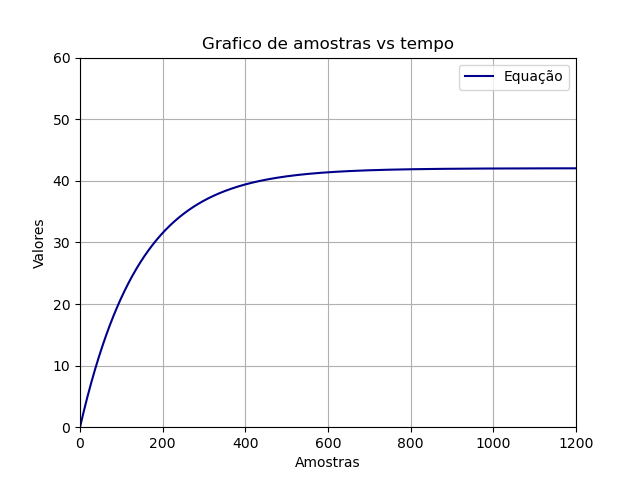
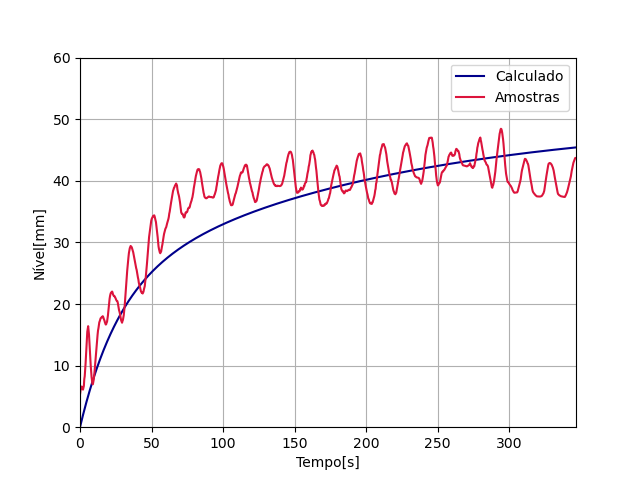
Alteraçoes

diff --git a/control.html b/control.html
@@ -150,28 +150,38 @@
 
               A1:<input type="text" class="form-control" name="A1" placeholder="0.9930900">
               B1:<input type="text" class="form-control" name="B1" placeholder="0.0058096">
+
+              Tempo Amostragem:<input type="text" class="form-control" name="Amostragem" placeholder="0.3">
               Setpoint:<input type="text" class="form-control" name="SetPoint" placeholder="50">
 
-              Proporcional:<input type="text" class="form-control" name="Proporcional" placeholder="1">
-              Integral:<input type="text" class="form-control" name="Integral" placeholder="1">
-              Derivativo:<input type="text" class="form-control" name="Derivativo" placeholder="1">
+              Ganho Proporcional:<input type="text" class="form-control" name="Proporcional" placeholder="0">
+              Ganho Integral:<input type="text" class="form-control" name="Integral" placeholder="0">
+              Ganho Derivativo:<input type="text" class="form-control" name="Derivativo" placeholder="0">
 
 
-            </div>
-            <div style="text-align: center;">
-              <h4 class="text-center">Modo</h4>
+              <div style="text-align: center;">
+                <h4 class="text-center">Modo</h4>
 
-              <div class=".container">
-                <div class=".btn-group btn-group-toggle" data-toggle="buttons">
-                  <label class="btn btn-primary darkgraybackground">
-                    <input type="radio" name="P__" id="P"> P &ThickSpace;&ThickSpace;
-                  </label>
-                  <label class="btn btn-primary mediumgraybackground">
-                    <input type="radio" name="PI_" id="PI"> PI &ThickSpace;
-                  </label>
-                  <label class="btn btn-primary lightgraybackground">
-                    <input type="radio" name="PID" id="PID"> PID
-                  </label>
+                <div class=".container">
+                  <div class=".btn-group btn-group-toggle" data-toggle="buttons">
+                    <label class="btn btn-primary darkgraybackground">
+                      <input type="radio" name="P__" id="P"> P &ThickSpace;&ThickSpace;
+                    </label>
+                    <label class="btn btn-primary mediumgraybackground">
+                      <input type="radio" name="PI_" id="PI"> PI &ThickSpace;
+                    </label>
+                    <label class="btn btn-primary lightgraybackground">
+                      <input type="radio" name="PID" id="PID"> PID
+
+                    </label>
+                  </div>
+
+                  <input class="form-check-input" type="checkbox" value="1" name="fixed_scale" id="fixed_scale" checked>
+                  <label class="form-check-label" for="fixed_scale"> Escala Fixa</label>
+                  <br>
+                  <input class="form-check-input" type="checkbox" value="1" name="plot_sample" id="plot_sample">
+                  <label class="form-check-label" for="plot_sample"> Exibir Amostras</label>
+
                 </div>
               </div>
               <br>
@@ -205,8 +215,7 @@
         </div>
 
         <div class="col-xl-2  ">
-
-          <br><br><br><br><br>yyyy
+          <br><br><br><br><br>table_placeholder
         </div>
       </div>
     </div>
@@ -214,7 +223,7 @@
 
     <footer class=".container">
       <!-- <hr style="height:8px;border-width:0;color: rgb(52, 58, 64);background-color: rgb(52, 58, 64)"> -->
-      <p class="text-center">&copy; ASM Sistemas de Controle (build 20200929-1722)</p>
+      <p class="text-center">&copy; ASM Sistemas de Controle (build 20201006 - 1204)</p>
     </footer>
 
 </html>

diff --git a/plot3trab.py b/plot3trab.py
@@ -1,9 +1,10 @@
 import matplotlib
 import matplotlib.pyplot as plt
 import numpy as np
-#oi
-def create_table(modo,a1,b1,sp,p,i,d,pico):
-    Html=     "<table>"
+
+
+def create_table(modo, a1, b1, sp, p, i, d, pico, overshoot, tempo_acomodacao):
+    Html =    "<table>"
     Html=Html+"<tr><th>     Param.  </th>    <th>Valor                   </th></tr>"
     Html=Html+"<tr><td>     Modo    </th>    <td>"+modo+   "             </td></tr>"
     Html=Html+"<tr><td>     A1      </td>    <td>"+str(a1)+"             </td></tr>"
@@ -12,97 +13,57 @@ def create_table(modo,a1,b1,sp,p,i,d,pico):
     Html=Html+"<tr><td>     P       </td>    <td>"+str(p)+"              </td></tr>"
     Html=Html+"<tr><td>     I       </td>    <td>"+str(i)+"              </td></tr>"
     Html=Html+"<tr><td>     D       </td>    <td>"+str(d)+"              </td></tr>"
-    tolerancia=sp*1.15
-    Html=Html+"<tr><td>     15% Tol. </td>    <td>"+str(tolerancia)+"            </td></tr>"
-    if(pico<tolerancia):
-        Html=Html+'<tr><td>     Pico    </td><td class="text-success">'+str(round(pico,2))+"  </td></tr>"
-    else:
-        Html=Html+'<tr><td>     Pico    </td><td class="text-danger">'+str(round(pico,2))+"  </td></tr>"
+    Html=Html+"<tr><td>     Pico    </td>    <td>"+str(round(pico,2))+"        </td></tr>"
+    Html=Html+'<tr><td>     Overshoot        </td><td class="text-success">'+str(round(overshoot,2))+"  </td></tr>"
+    Html=Html+'<tr><td> Tempo de acomodação  </td><td class="text-danger">'+str(round(tempo_acomodacao,2))+"  </td></tr>"
     Html=Html+"</table>"
-    #<p class="text-success">.text-success</p>
-    #vc nao esta vendo errado, isto eh exatamente oque vc pensa que eh
+    # <p class="text-success">.text-success</p>
+    # vc nao esta vendo errado, isto eh exatamente oque vc pensa que eh
     return Html
 
-def plot(modo,a1,b1,sp,p,i,d):
-    
-    
-    #for x in range(0, len(samples)):
-    #    print (samples[x])
-
-    #limite = len(samples)      # 600 amostras (10 minutos)
-    limite=1200
-    limite2 = len(samples)      
-    amostragem = 1  # intervalo entre amostras
-    leituras = []     # valor vazio
-    tempo = np.arange(0, limite*amostragem, amostragem)
-    tempo2 = np.arange(0, limite2*amostragem, amostragem) 
-
-    # preenche o vetor com 6000 amostras
-    # entre 0 e 599.9
-    #a1 = 0.9930900
-    #b1 = 0.0058096
-    kp = float(p)  #ganho proporcional
-    ki = float(i)  #ganho integral
-
-
-
-    #setpoint = 0
-    saida = 0
-    #alvo = 50
-    alvo=float(sp)
-    leituras.append(saida)  # instante zero vale zero
-
-    erro = 50  # erro inicial
-    acao_int=0
-    for cont in tempo:
-        acao_int=acao_int+ki*amostragem*erro
-        acao_pro=kp*erro
-
-        acao_controle=acao_int+acao_pro
-        erro = alvo-leituras[int(cont)]
-        #print (round(cont,1))
-        # esta string feia quer dizer erro = (alvo)-(ultima saida)
-        if modo=="P":
-            leituras.append(( a1*leituras[int(cont)] + b1*alvo)) #Q1
-        else:
-            leituras.append(( a1*leituras[int(cont)] + kp*b1*acao_controle))  #Q2
-        #leituras.append(( a1*leituras[int(cont)] + b1*kp*erro))  #Q3
-
-    #   if cont >= 344.3:
-        if cont >= (tempo.max()-1*amostragem):
-            break
-
-
-    #for leitura in leituras:
-    #    print(leitura)
-
-    #t = tempo
-    #v = leituras
-
-    #for t in range(0,len(tempo)):
-    #    a=tempo[t]*0.3
-    #    print(a)
-    #    tempo[t]=a
-
+def plot(modo,a1,b1,ts,sp,kp,ki,kd,fs,ps):
+    pv = 0  
+    tempo=0
+    vetY = []
+    vetT = []
+    acaoIntegral = 0
+    erroAnterior = sp-pv
+    tempo_acomodacao = 0
+    tempo_analise = 346.8
+    while (tempo<tempo_analise):
+      vetY.append(pv) 
+      vetT.append(tempo) 
+      # Cálculos:
+      erro = sp - pv 
+      acaoProporcional = kp * erro 
+      acaoIntegral = acaoIntegral + ki*ts*erro 
+      acaoDerivativa = ((erro - erroAnterior)/ts)*kd 
+      acaoControlador = acaoProporcional + acaoIntegral + acaoDerivativa 
+      pv = a1*pv + b1*acaoControlador 
+      erroAnterior = erro 
+      if(pv>sp*1.02): #pv>51 (+2% de variação do valor setado)
+          tempo_acomodacao=0 
+      elif (pv<sp*0.98): #pv<49 (-2% de variação do valor setado)
+          tempo_acomodacao=0 
+      elif(tempo_acomodacao==0):
+          tempo_acomodacao = tempo 
+      tempo=tempo+ts     
     fig, ax = plt.subplots()
-    #plt.xlim(xmin=0.0,xmax=len(samples))
-    plt.xlim(xmin=0.0,xmax=1200)
-    plt.ylim(ymin=0.0,ymax=60)
+    plt.xlim(xmin=0.0,xmax=tempo)
+    #plt.xlim(xmin=0.0,xmax=350)	
 
-    pico=max(leituras)
-    
-    ax.plot(tempo, leituras, color='darkblue', label="Equação")
-    ax.plot(tempo2, samples , color='crimson' , label="Leitura" )
-
-    ax.legend()
-    titulo = "Grafico de amostras vs tempo"
-    ax.set(xlabel='Amostras', ylabel='Valores', title=titulo)
+    if fs:
+        plt.ylim(ymin=0.0,ymax=sp*1.2)
+    ax.plot(vetT, vetY, color='darkblue', label="Calculado")
+    ax.set(xlabel='Tempo[s]', ylabel='Nível[mm]')
+    if(ps):
+        ax.plot(vetT, samples , color='crimson' , label="Amostras" )
+        ax.legend()
     ax.grid()
-    #plt.show()
-    fig.savefig("./tmp/Results.png")
-
-    
-    Html=create_table(modo,a1,b1,sp,p,i,d,pico)
+    pico=max(vetY)
+    overshoot = (pico-sp)/sp*100 
+    fig.savefig("./tmp/Results.png")    
+    Html=create_table(modo,a1,b1,sp,kp,ki,kd,pico,overshoot,tempo_acomodacao)
     return Html
 
-samples=[5.3171,5.8219,6.3517,6.5201,6.5999,6.4649,6.2239,6.0977,6.3924,6.7084,7.8155,8.2702,9.1974,10.326,11.698,13.004,14.302,15.502,15.948,16.398,15.665,15.013,13.72,12.554,11.16,9.9765,8.932,8.132,7.5887,7.0124,6.9702,7.3112,7.7195,8.398,9.089,9.9572,10.943,11.68,12.556,13.554,14.493,15.032,15.698,16.068,16.56,17.035,17.212,17.447,17.674,17.733,17.813,17.91,17.851,18.019,17.902,17.662,17.477,17.316,17.03,16.858,16.659,16.71,16.967,17.106,17.587,18.084,18.82,19.473,20.155,20.855,21.293,21.604,21.81,21.874,21.983,22.017,21.819,21.533,21.428,21.277,21.29,21.223,21.034,20.937,20.722,20.584,20.487,20.47,20.229,19.799,19.386,18.994,18.766,18.454,18.025,17.683,17.321,17.128,16.96,17.233,17.401,17.772,18.198,18.829,19.582,20.445,21.494,22.509,23.604,24.388,25.398,26.199,26.973,27.635,28.275,28.717,29.054,29.222,29.42,29.356,29.273,29.125,28.868,28.675,28.401,28.027,27.656,27.352,26.877,26.574,26.081,25.794,25.55,25.103,24.649,24.299,23.991,23.486,23.145,22.875,22.694,22.378,22.061,21.922,21.804,21.821,21.703,21.832,22.018,22.376,22.616,22.92,23.637,24.155,24.908,25.637,26.496,27.368,28.239,29.023,29.942,30.876,31.423,32.084,32.645,33.078,33.496,33.782,33.954,34.068,34.261,34.257,34.359,34.397,34.211,33.866,33.584,33.306,32.721,32.25,31.454,30.855,30.017,29.351,28.948,28.687,28.38,28.241,28.405,28.497,28.947,29.313,29.654,30.142,30.55,31.004,31.404,31.66,31.934,32.207,32.342,32.494,32.819,33.072,33.308,33.498,33.797,34.13,34.657,34.973,35.47,35.861,36.351,36.789,37.151,37.601,38.006,38.398,38.575,38.862,38.925,39.161,39.308,39.392,39.556,39.388,39.252,38.641,38.287,37.945,37.705,37.394,36.96,36.535,35.933,35.462,34.809,34.733,34.59,34.628,34.505,34.235,34.062,34.045,34.171,34.495,34.815,34.908,34.874,34.887,35.009,35.274,35.514,35.577,35.645,35.624,35.814,36.151,36.391,36.606,36.783,37.108,37.327,37.72,38.137,38.718,39.088,39.506,39.928,40.332,40.761,41.056,41.414,41.599,41.814,41.811,41.903,41.878,41.861,41.587,41.423,41.086,40.72,40.349,39.801,39.418,38.941,38.465,38.082,37.816,37.436,37.319,37.247,37.175,37.204,37.17,37.217,37.301,37.331,37.39,37.454,37.433,37.429,37.37,37.362,37.353,37.383,37.34,37.307,37.311,37.268,37.302,37.373,37.647,37.773,38.021,38.232,38.497,38.986,39.339,39.865,40.211,40.67,40.996,41.446,41.795,42.123,42.469,42.625,42.756,42.853,42.857,42.744,42.52,42.288,41.956,41.527,41.144,40.625,40.259,39.75,39.442,39.075,38.705,38.346,38.005,37.76,37.288,37.027,36.685,36.483,36.226,36.045,36.032,36.049,36.062,36.193,36.516,36.774,37.031,37.288,37.528,37.839,37.978,38.235,38.438,38.758,39.04,39.369,39.711,40.052,40.351,40.625,40.891,41.025,41.333,41.367,41.316,41.338,41.405,41.603,41.852,42.067,42.218,42.458,42.454,42.592,42.622,42.55,42.479,42.061,41.729,41.228,40.916,40.411,40.116,39.657,39.434,39.121,38.734,38.544,38.249,38.126,37.717,37.455,37.186,37.038,36.786,36.55,36.558,36.621,36.693,36.837,37.225,37.537,37.878,38.198,38.645,39.138,39.513,39.783,40.212,40.49,40.819,41.131,41.409,41.594,41.931,42.129,42.235,42.344,42.39,42.42,42.504,42.554,42.668,42.673,42.644,42.527,42.509,42.362,42.16,42.021,41.722,41.457,41.14,40.87,40.528,40.309,40.069,39.821,39.677,39.5,39.386,39.311,39.197,39.231,39.168,39.172,39.121,39.201,39.189,39.18,39.176,39.147,39.147,39.139,39.172,39.223,39.248,39.408,39.488,39.75,39.977,40.209,40.52,40.832,41.228,41.556,42.067,42.404,42.883,43.102,43.477,43.789,44.071,44.328,44.467,44.673,44.668,44.736,44.707,44.618,44.421,44.185,43.722,43.415,42.762,42.202,41.401,40.715,40.108,39.611,38.987,38.628,38.198,38.047,38.072,38.076,38.249,38.249,38.324,38.312,38.624,38.562,38.899,38.756,38.747,38.57,38.583,38.747,38.869,39.152,39.147,39.522,39.619,39.808,39.787,40.28,40.616,41.109,41.471,41.745,42.297,42.566,43.029,43.455,44.146,44.382,44.702,44.765,44.731,44.908,44.694,44.618,44.331,44.202,43.752,43.448,42.77,42.143,41.621,40.766,40.079,39.379,38.705,37.993,37.504,36.931,36.753,36.407,36.128,36.036,35.998,35.909,35.964,35.921,35.967,35.946,35.968,36.133,36.124,36.259,36.289,36.362,36.319,36.48,36.653,36.818,37.088,37.173,37.527,37.801,38.016,38.487,39.098,39.435,39.814,40.041,40.377,40.722,41.093,41.349,41.711,41.791,41.964,42.154,42.204,42.457,42.395,42.244,41.933,41.634,41.205,40.88,40.682,40.202,39.789,39.195,38.66,38.508,38.385,38.262,38.296,38.262,37.958,37.988,38.063,38.235,38.42,38.373,38.395,38.319,38.336,38.412,38.475,38.543,38.488,38.526,38.509,38.632,38.779,38.956,39.015,39.239,39.336,39.547,39.998,40.445,40.883,41.174,41.586,42.049,42.462,42.769,43.245,43.519,43.755,43.945,44.155,44.37,44.337,44.358,44.454,44.181,43.945,43.704,43.136,42.752,42.327,41.775,41.4,40.92,40.242,39.947,39.501,39.139,38.771,38.379,38.054,37.806,37.397,37.081,37.005,36.701,36.499,36.348,36.373,36.306,36.293,36.239,36.491,36.491,36.744,36.985,37.309,37.537,37.912,38.438,38.708,39.517,39.757,40.431,40.936,41.463,41.905,42.62,43.18,43.542,44.178,44.396,44.868,45.159,45.365,45.659,45.92,45.912,45.908,45.963,45.702,45.538,45.407,45.02,44.65,44.301,43.716,43.151,42.726,42.217,41.948,41.544,41.085,40.781,40.604,40.195,40.166,39.93,39.681,39.306,38.935,38.573,38.333,38.194,37.929,37.904,37.815,37.963,38.055,38.443,38.801,39.218,39.627,40.099,40.423,40.895,41.27,41.725,42.117,42.521,42.963,43.393,43.742,44.129,44.596,44.802,45.122,45.349,45.614,45.732,45.841,45.942,46.039,46.085,45.875,45.765,45.694,45.374,45.063,44.654,44.258,43.887,43.496,42.935,42.645,42.359,41.875,41.656,41.403,41.252,41.076,40.9,40.736,40.698,40.657,40.568,40.552,40.527,40.51,40.489,40.477,40.418,40.287,40.093,39.819,39.667,39.503,39.726,39.869,40.147,40.547,41.005,41.481,42.092,42.791,43.385,44.168,44.569,45.053,45.352,45.584,45.798,46.165,46.447,46.7,46.952,46.964,46.956,46.997,47.018,46.988,46.992,46.625,46.208,45.581,45.16,44.532,43.926,43.067,42.478,41.799,40.911,40.326,39.812,39.564,39.256,39.303,39.434,39.637,39.641,39.81,40.198,40.569,40.924,41.253,41.414,41.494,41.486,41.608,41.727,41.765,41.908,42.03,42.152,42.282,42.366,42.517,42.803,43.164,43.542,43.912,44.047,44.24,44.331,44.47,44.55,44.588,44.419,44.192,44.053,44.049,44.062,44.146,44.13,44.21,44.383,44.782,45.001,45.191,45.153,45.026,44.974,44.819,44.831,44.573,44.316,43.803,43.563,43.335,43.205,43.062,42.894,42.709,42.566,42.507,42.495,42.486,42.461,42.432,42.428,42.39,42.386,42.349,42.349,42.39,42.454,42.47,42.53,42.571,42.723,42.858,42.702,42.504,42.319,42.319,42.15,42.193,42.07,42.327,42.315,42.361,42.77,43.068,43.548,43.708,44.373,44.731,45.366,45.648,46.082,46.262,46.486,46.78,46.843,47.024,46.591,46.308,45.875,45.505,45.063,44.747,44.292,43.963,43.618,43.285,43.197,43.066,42.932,42.725,42.599,42.566,42.465,42.289,41.906,41.552,41.144,40.781,40.41,39.981,39.568,39.239,38.931,38.876,39.167,39.315,39.635,39.968,40.448,40.874,41.497,42.239,42.946,43.659,44.24,44.969,45.467,46.073,46.557,47.18,47.636,47.905,48.283,48.447,48.401,48.169,47.789,47.279,46.74,46.05,45.149,44.235,43.414,42.521,41.835,41.152,40.731,40.373,39.986,39.775,39.8,39.724,39.538,39.437,39.31,39.242,39.166,39.018,38.912,38.756,38.528,38.397,38.27,38.156,38.072,38.063,38.077,38.094,38.091,38.109,38.105,38.14,38.28,38.541,38.799,39.103,39.393,39.578,39.906,40.226,40.773,41.262,41.683,41.973,42.235,42.525,42.769,43.139,43.354,43.569,43.476,43.501,43.376,43.228,43.085,42.853,42.765,42.487,42.07,41.573,41.16,40.641,40.232,39.878,39.512,39.146,38.674,38.354,38.169,38.06,37.967,37.879,37.799,37.698,37.631,37.58,37.517,37.471,37.471,37.467,37.458,37.446,37.446,37.442,37.45,37.45,37.471,37.487,37.529,37.614,37.719,37.858,37.942,38.161,38.384,38.881,39.369,39.87,40.372,40.768,41.202,41.645,42.1,42.428,42.739,42.816,42.879,42.896,42.846,42.816,42.711,42.648,42.487,42.32,42.147,41.911,41.637,41.191,40.803,40.403,40.015,39.547,39.194,38.848,38.49,38.165,37.883,37.808,37.707,37.656,37.61,37.567,37.533,37.492,37.475,37.45,37.433,37.412,37.404,37.396,37.387,37.383,37.379,37.493,37.627,37.8,38.002,38.133,38.368,38.637,38.932,39.265,39.513,39.821,40.107,40.377,40.701,41.198,41.598,41.935,42.276,42.588,42.933,43.135,43.366,43.585,43.687,43.704,43.679]
+samples=[5.3171,5.8219,6.3517,6.5201,6.5999,6.4649,6.2239,6.0977,6.3924,6.7084,7.8155,8.2702,9.1974,10.326,11.698,13.004,14.302,15.502,15.948,16.398,15.665,15.013,13.72,12.554,11.16,9.9765,8.932,8.132,7.5887,7.0124,6.9702,7.3112,7.7195,8.398,9.089,9.9572,10.943,11.68,12.556,13.554,14.493,15.032,15.698,16.068,16.56,17.035,17.212,17.447,17.674,17.733,17.813,17.91,17.851,18.019,17.902,17.662,17.477,17.316,17.03,16.858,16.659,16.71,16.967,17.106,17.587,18.084,18.82,19.473,20.155,20.855,21.293,21.604,21.81,21.874,21.983,22.017,21.819,21.533,21.428,21.277,21.29,21.223,21.034,20.937,20.722,20.584,20.487,20.47,20.229,19.799,19.386,18.994,18.766,18.454,18.025,17.683,17.321,17.128,16.96,17.233,17.401,17.772,18.198,18.829,19.582,20.445,21.494,22.509,23.604,24.388,25.398,26.199,26.973,27.635,28.275,28.717,29.054,29.222,29.42,29.356,29.273,29.125,28.868,28.675,28.401,28.027,27.656,27.352,26.877,26.574,26.081,25.794,25.55,25.103,24.649,24.299,23.991,23.486,23.145,22.875,22.694,22.378,22.061,21.922,21.804,21.821,21.703,21.832,22.018,22.376,22.616,22.92,23.637,24.155,24.908,25.637,26.496,27.368,28.239,29.023,29.942,30.876,31.423,32.084,32.645,33.078,33.496,33.782,33.954,34.068,34.261,34.257,34.359,34.397,34.211,33.866,33.584,33.306,32.721,32.25,31.454,30.855,30.017,29.351,28.948,28.687,28.38,28.241,28.405,28.497,28.947,29.313,29.654,30.142,30.55,31.004,31.404,31.66,31.934,32.207,32.342,32.494,32.819,33.072,33.308,33.498,33.797,34.13,34.657,34.973,35.47,35.861,36.351,36.789,37.151,37.601,38.006,38.398,38.575,38.862,38.925,39.161,39.308,39.392,39.556,39.388,39.252,38.641,38.287,37.945,37.705,37.394,36.96,36.535,35.933,35.462,34.809,34.733,34.59,34.628,34.505,34.235,34.062,34.045,34.171,34.495,34.815,34.908,34.874,34.887,35.009,35.274,35.514,35.577,35.645,35.624,35.814,36.151,36.391,36.606,36.783,37.108,37.327,37.72,38.137,38.718,39.088,39.506,39.928,40.332,40.761,41.056,41.414,41.599,41.814,41.811,41.903,41.878,41.861,41.587,41.423,41.086,40.72,40.349,39.801,39.418,38.941,38.465,38.082,37.816,37.436,37.319,37.247,37.175,37.204,37.17,37.217,37.301,37.331,37.39,37.454,37.433,37.429,37.37,37.362,37.353,37.383,37.34,37.307,37.311,37.268,37.302,37.373,37.647,37.773,38.021,38.232,38.497,38.986,39.339,39.865,40.211,40.67,40.996,41.446,41.795,42.123,42.469,42.625,42.756,42.853,42.857,42.744,42.52,42.288,41.956,41.527,41.144,40.625,40.259,39.75,39.442,39.075,38.705,38.346,38.005,37.76,37.288,37.027,36.685,36.483,36.226,36.045,36.032,36.049,36.062,36.193,36.516,36.774,37.031,37.288,37.528,37.839,37.978,38.235,38.438,38.758,39.04,39.369,39.711,40.052,40.351,40.625,40.891,41.025,41.333,41.367,41.316,41.338,41.405,41.603,41.852,42.067,42.218,42.458,42.454,42.592,42.622,42.55,42.479,42.061,41.729,41.228,40.916,40.411,40.116,39.657,39.434,39.121,38.734,38.544,38.249,38.126,37.717,37.455,37.186,37.038,36.786,36.55,36.558,36.621,36.693,36.837,37.225,37.537,37.878,38.198,38.645,39.138,39.513,39.783,40.212,40.49,40.819,41.131,41.409,41.594,41.931,42.129,42.235,42.344,42.39,42.42,42.504,42.554,42.668,42.673,42.644,42.527,42.509,42.362,42.16,42.021,41.722,41.457,41.14,40.87,40.528,40.309,40.069,39.821,39.677,39.5,39.386,39.311,39.197,39.231,39.168,39.172,39.121,39.201,39.189,39.18,39.176,39.147,39.147,39.139,39.172,39.223,39.248,39.408,39.488,39.75,39.977,40.209,40.52,40.832,41.228,41.556,42.067,42.404,42.883,43.102,43.477,43.789,44.071,44.328,44.467,44.673,44.668,44.736,44.707,44.618,44.421,44.185,43.722,43.415,42.762,42.202,41.401,40.715,40.108,39.611,38.987,38.628,38.198,38.047,38.072,38.076,38.249,38.249,38.324,38.312,38.624,38.562,38.899,38.756,38.747,38.57,38.583,38.747,38.869,39.152,39.147,39.522,39.619,39.808,39.787,40.28,40.616,41.109,41.471,41.745,42.297,42.566,43.029,43.455,44.146,44.382,44.702,44.765,44.731,44.908,44.694,44.618,44.331,44.202,43.752,43.448,42.77,42.143,41.621,40.766,40.079,39.379,38.705,37.993,37.504,36.931,36.753,36.407,36.128,36.036,35.998,35.909,35.964,35.921,35.967,35.946,35.968,36.133,36.124,36.259,36.289,36.362,36.319,36.48,36.653,36.818,37.088,37.173,37.527,37.801,38.016,38.487,39.098,39.435,39.814,40.041,40.377,40.722,41.093,41.349,41.711,41.791,41.964,42.154,42.204,42.457,42.395,42.244,41.933,41.634,41.205,40.88,40.682,40.202,39.789,39.195,38.66,38.508,38.385,38.262,38.296,38.262,37.958,37.988,38.063,38.235,38.42,38.373,38.395,38.319,38.336,38.412,38.475,38.543,38.488,38.526,38.509,38.632,38.779,38.956,39.015,39.239,39.336,39.547,39.998,40.445,40.883,41.174,41.586,42.049,42.462,42.769,43.245,43.519,43.755,43.945,44.155,44.37,44.337,44.358,44.454,44.181,43.945,43.704,43.136,42.752,42.327,41.775,41.4,40.92,40.242,39.947,39.501,39.139,38.771,38.379,38.054,37.806,37.397,37.081,37.005,36.701,36.499,36.348,36.373,36.306,36.293,36.239,36.491,36.491,36.744,36.985,37.309,37.537,37.912,38.438,38.708,39.517,39.757,40.431,40.936,41.463,41.905,42.62,43.18,43.542,44.178,44.396,44.868,45.159,45.365,45.659,45.92,45.912,45.908,45.963,45.702,45.538,45.407,45.02,44.65,44.301,43.716,43.151,42.726,42.217,41.948,41.544,41.085,40.781,40.604,40.195,40.166,39.93,39.681,39.306,38.935,38.573,38.333,38.194,37.929,37.904,37.815,37.963,38.055,38.443,38.801,39.218,39.627,40.099,40.423,40.895,41.27,41.725,42.117,42.521,42.963,43.393,43.742,44.129,44.596,44.802,45.122,45.349,45.614,45.732,45.841,45.942,46.039,46.085,45.875,45.765,45.694,45.374,45.063,44.654,44.258,43.887,43.496,42.935,42.645,42.359,41.875,41.656,41.403,41.252,41.076,40.9,40.736,40.698,40.657,40.568,40.552,40.527,40.51,40.489,40.477,40.418,40.287,40.093,39.819,39.667,39.503,39.726,39.869,40.147,40.547,41.005,41.481,42.092,42.791,43.385,44.168,44.569,45.053,45.352,45.584,45.798,46.165,46.447,46.7,46.952,46.964,46.956,46.997,47.018,46.988,46.992,46.625,46.208,45.581,45.16,44.532,43.926,43.067,42.478,41.799,40.911,40.326,39.812,39.564,39.256,39.303,39.434,39.637,39.641,39.81,40.198,40.569,40.924,41.253,41.414,41.494,41.486,41.608,41.727,41.765,41.908,42.03,42.152,42.282,42.366,42.517,42.803,43.164,43.542,43.912,44.047,44.24,44.331,44.47,44.55,44.588,44.419,44.192,44.053,44.049,44.062,44.146,44.13,44.21,44.383,44.782,45.001,45.191,45.153,45.026,44.974,44.819,44.831,44.573,44.316,43.803,43.563,43.335,43.205,43.062,42.894,42.709,42.566,42.507,42.495,42.486,42.461,42.432,42.428,42.39,42.386,42.349,42.349,42.39,42.454,42.47,42.53,42.571,42.723,42.858,42.702,42.504,42.319,42.319,42.15,42.193,42.07,42.327,42.315,42.361,42.77,43.068,43.548,43.708,44.373,44.731,45.366,45.648,46.082,46.262,46.486,46.78,46.843,47.024,46.591,46.308,45.875,45.505,45.063,44.747,44.292,43.963,43.618,43.285,43.197,43.066,42.932,42.725,42.599,42.566,42.465,42.289,41.906,41.552,41.144,40.781,40.41,39.981,39.568,39.239,38.931,38.876,39.167,39.315,39.635,39.968,40.448,40.874,41.497,42.239,42.946,43.659,44.24,44.969,45.467,46.073,46.557,47.18,47.636,47.905,48.283,48.447,48.401,48.169,47.789,47.279,46.74,46.05,45.149,44.235,43.414,42.521,41.835,41.152,40.731,40.373,39.986,39.775,39.8,39.724,39.538,39.437,39.31,39.242,39.166,39.018,38.912,38.756,38.528,38.397,38.27,38.156,38.072,38.063,38.077,38.094,38.091,38.109,38.105,38.14,38.28,38.541,38.799,39.103,39.393,39.578,39.906,40.226,40.773,41.262,41.683,41.973,42.235,42.525,42.769,43.139,43.354,43.569,43.476,43.501,43.376,43.228,43.085,42.853,42.765,42.487,42.07,41.573,41.16,40.641,40.232,39.878,39.512,39.146,38.674,38.354,38.169,38.06,37.967,37.879,37.799,37.698,37.631,37.58,37.517,37.471,37.471,37.467,37.458,37.446,37.446,37.442,37.45,37.45,37.471,37.487,37.529,37.614,37.719,37.858,37.942,38.161,38.384,38.881,39.369,39.87,40.372,40.768,41.202,41.645,42.1,42.428,42.739,42.816,42.879,42.896,42.846,42.816,42.711,42.648,42.487,42.32,42.147,41.911,41.637,41.191,40.803,40.403,40.015,39.547,39.194,38.848,38.49,38.165,37.883,37.808,37.707,37.656,37.61,37.567,37.533,37.492,37.475,37.45,37.433,37.412,37.404,37.396,37.387,37.383,37.379,37.493,37.627,37.8,38.002,38.133,38.368,38.637,38.932,39.265,39.513,39.821,40.107,40.377,40.701,41.198,41.598,41.935,42.276,42.588,42.933,43.135,43.366,43.585,43.687,43.704]

diff --git a/server.py b/server.py
@@ -26,11 +26,16 @@ def control():
 
     a1 = str(request.args.get('A1' , "" ))
     b1 = str(request.args.get('B1' , ""))
+    ts = str(request.args.get('Amostragem' , ""))
 
     sp= str(request.args.get('SetPoint'      , ""))
     p = str(request.args.get('Proporcional'  , ""))
     i = str(request.args.get('Integral'      , ""))
     d = str(request.args.get('Derivativo'    , ""))
+
+    fs = str(request.args.get('fixed_scale'    , ""))
+    
+    ps = str(request.args.get('plot_sample'    , ""))
 
     modo=""
     if Denable:
@@ -38,32 +43,43 @@ def control():
     else:
         if Ienable:
             modo="PI"
+            d = 0
         else:
             modo="P"
+            d = 0
+            i = 0
 
     if a1=="":
         a1=0.9930900
     if b1=="":
         b1 = 0.0058096
+    if ts=="":
+        ts=0.3
     if sp=="":
         sp = 50
     if p=="":
-        p = 1
+        p = 0
     if i=="":
-        i = 1
+        i = 0
     if d=="":
-        d = 1
+        d = 0
+    if fs=="":
+        fs=0
+    if ps=="":
+        ps=0
+
+    
     
     print (request.headers)
     #print( app.Request.user_agent)
-    print("EQ  [",a1,b1,"]\nVAR [",modo,sp,p,i,d,"]")
+    print("EQ  [",a1,b1,ts,"]\nVAR [",modo,sp,p,i,d,fs,ps,"]")
 
     #print (request.args)
     #import  prolabs_flask
     #resp=resp+str(prolabs_flask.main(0,p9))
     import plot3trab
-    aaa=plot3trab.plot(modo,float(a1),float(b1),float(sp),float(p),float(i),float(d))
-    html=html.replace("yyyy",aaa)
+    retorno=plot3trab.plot(modo,float(a1),float(b1),float(ts),float(sp),float(p),float(i),float(d),int(fs),int(ps))
+    html=html.replace("table_placeholder",retorno)
     print("now sending...")
     return html 
 
